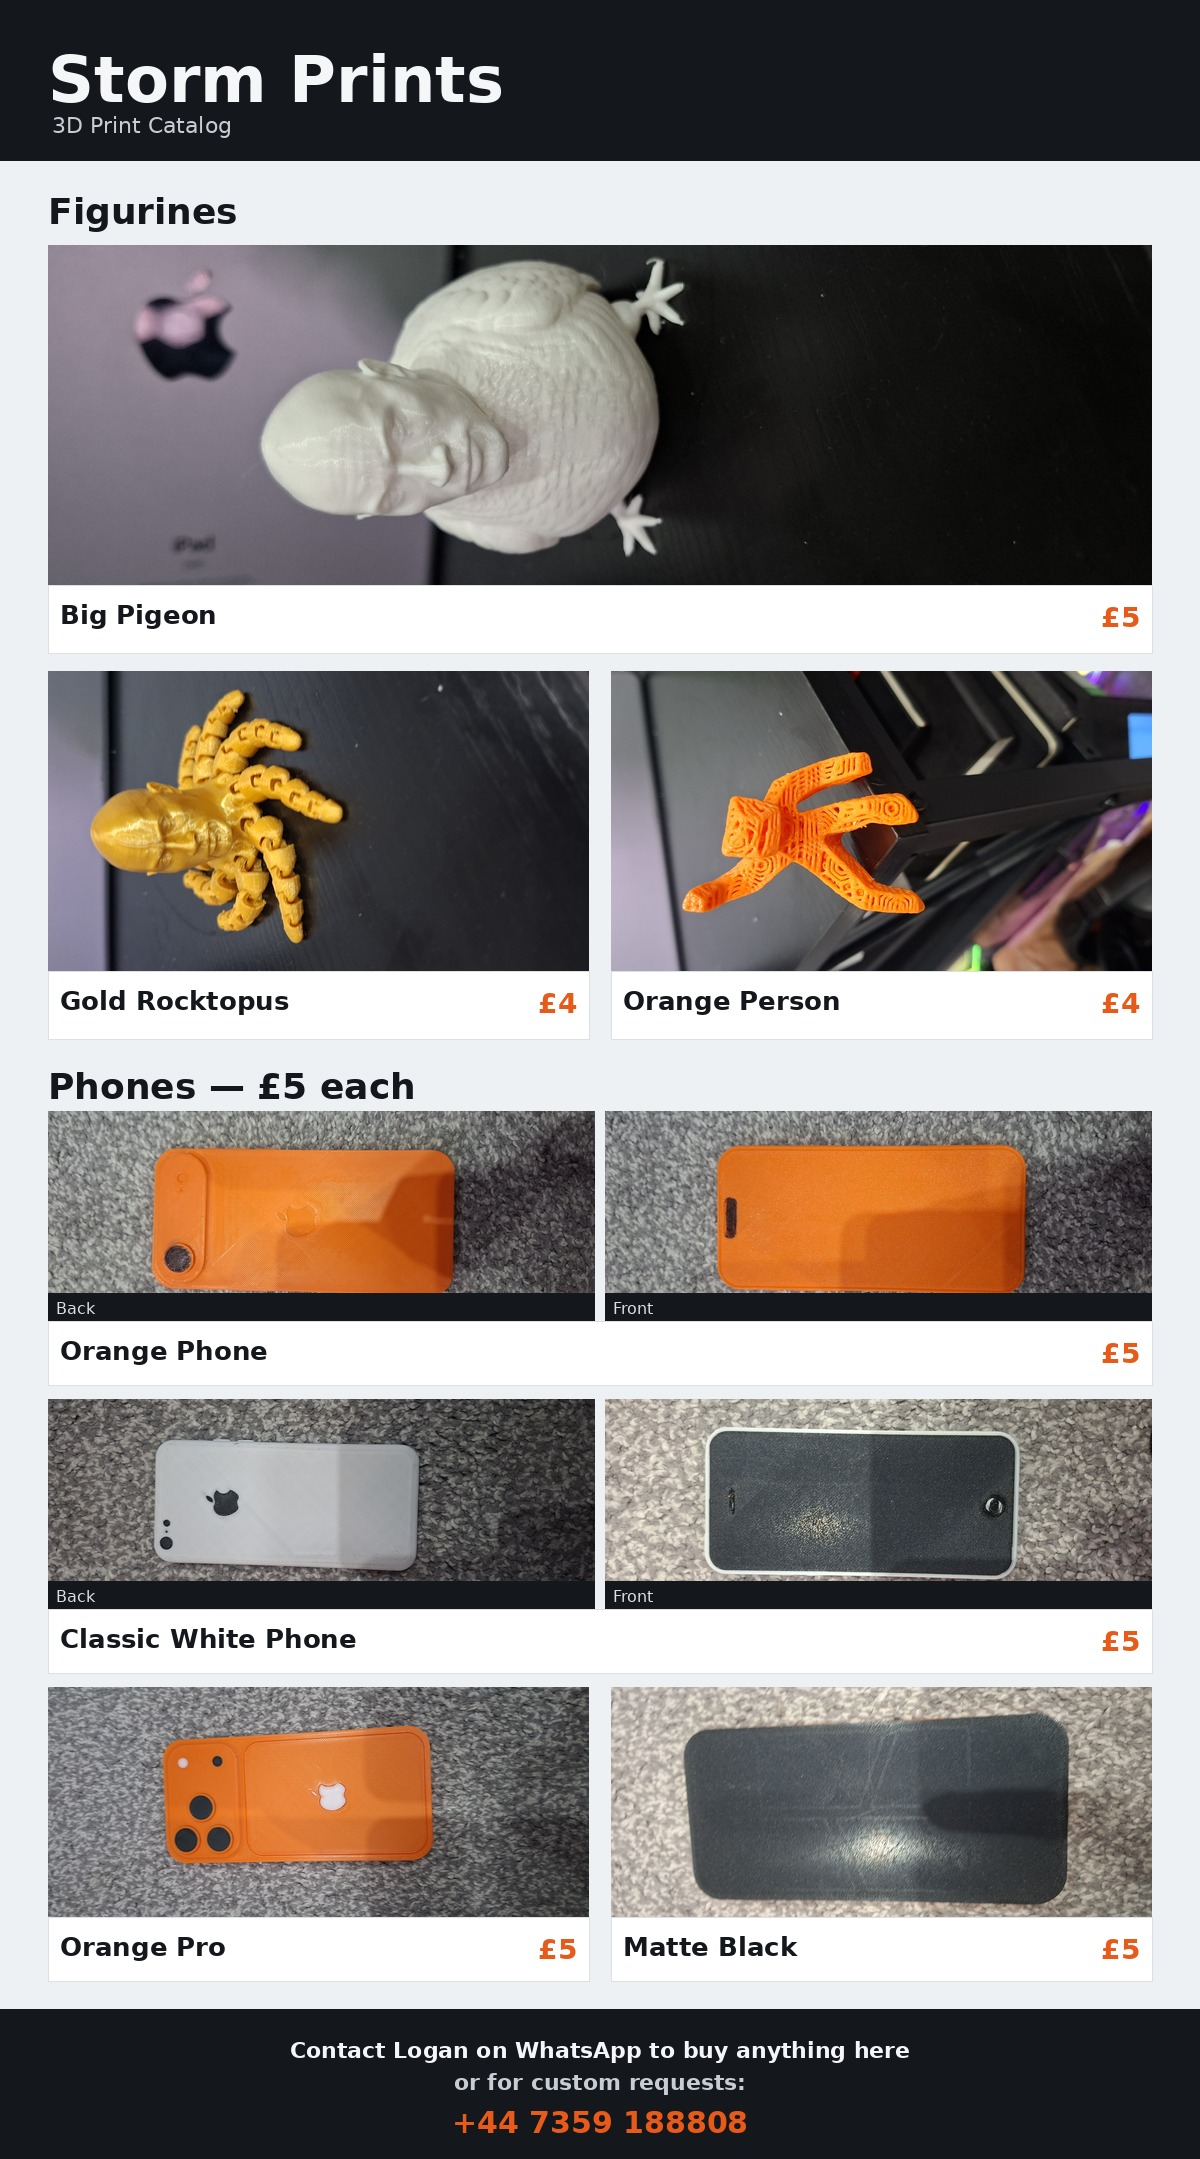
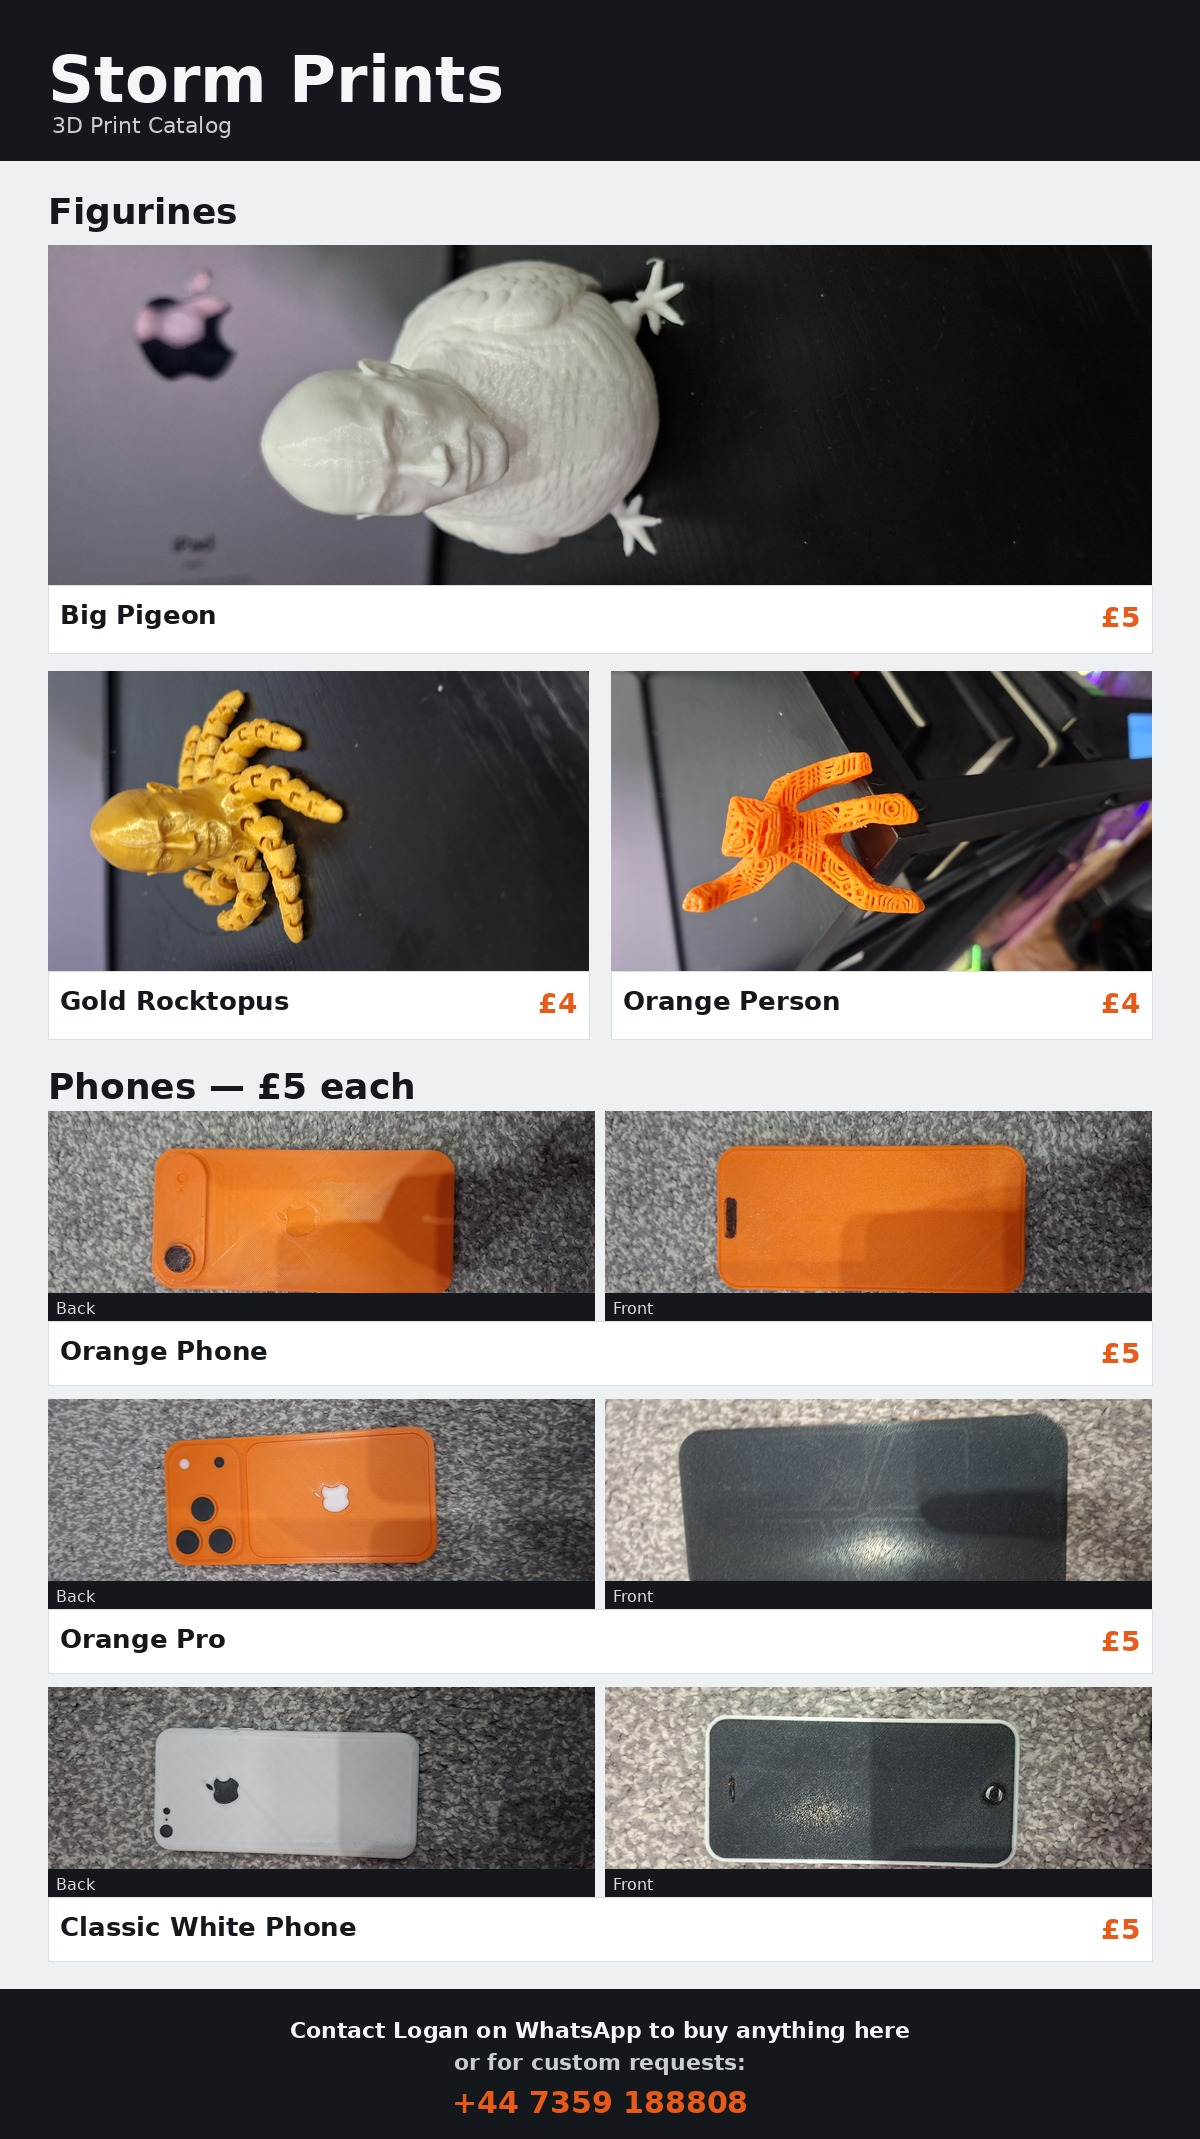
Pair matte black front with Orange Pro as one phone

diff --git a/3d-prints-catalog/index.html b/3d-prints-catalog/index.html
@@ -93,6 +93,23 @@
         <article class="phone phone--pair reveal">
           <div class="phone__shots">
             <figure>
+              <img src="images/phone-orange-pro.jpg" alt="Orange Pro phone back" width="1000" height="750" loading="lazy" />
+              <figcaption>Back</figcaption>
+            </figure>
+            <figure>
+              <img src="images/phone-matte-black.jpg" alt="Orange Pro phone front" width="1000" height="750" loading="lazy" />
+              <figcaption>Front</figcaption>
+            </figure>
+          </div>
+          <div class="phone__meta">
+            <h3>Orange Pro</h3>
+            <p>Front and back of the same print</p>
+            <p class="price">£5</p>
+          </div>
+        </article>
+        <article class="phone phone--pair reveal">
+          <div class="phone__shots">
+            <figure>
               <img src="images/phone-white-logo.jpg" alt="Classic white phone back" width="1000" height="750" loading="lazy" />
               <figcaption>Back</figcaption>
             </figure>
@@ -104,22 +121,6 @@
           <div class="phone__meta">
             <h3>Classic White Phone</h3>
             <p>Front and back of the same print</p>
-            <p class="price">£5</p>
-          </div>
-        </article>
-        <article class="phone reveal">
-          <img src="images/phone-orange-pro.jpg" alt="Orange Pro phone replica with triple camera island" width="1000" height="750" loading="lazy" />
-          <div class="phone__meta">
-            <h3>Orange Pro</h3>
-            <p>Triple camera island + logo back</p>
-            <p class="price">£5</p>
-          </div>
-        </article>
-        <article class="phone reveal">
-          <img src="images/phone-matte-black.jpg" alt="Matte black 3D-printed phone blank" width="1000" height="750" loading="lazy" />
-          <div class="phone__meta">
-            <h3>Matte Black</h3>
-            <p>Textured blank handset</p>
             <p class="price">£5</p>
           </div>
         </article>

diff --git a/3d-prints-catalog/build_catalog.py b/3d-prints-catalog/build_catalog.py
@@ -102,12 +102,10 @@ def build():
     full = W - 96
     y = place_pair(canvas, draw, 48, y, "phone-orange-single.jpg", "phone-orange-front.jpg", "Orange Phone", "£5", full, 210, 64)
     y += 14
-    y = place_pair(canvas, draw, 48, y, "phone-white-logo.jpg", "phone-classic-home.jpg", "Classic White Phone", "£5", full, 210, 64)
+    y = place_pair(canvas, draw, 48, y, "phone-orange-pro.jpg", "phone-matte-black.jpg", "Orange Pro", "£5", full, 210, 64)
     y += 14
-
-    y1 = place_item(canvas, draw, 48, y, "phone-orange-pro.jpg", "Orange Pro", "£5", half, 230, 64)
-    y2 = place_item(canvas, draw, 48 + half + gap, y, "phone-matte-black.jpg", "Matte Black", "£5", half, 230, 64)
-    y = max(y1, y2) + 28
+    y = place_pair(canvas, draw, 48, y, "phone-white-logo.jpg", "phone-classic-home.jpg", "Classic White Phone", "£5", full, 210, 64)
+    y += 28
 
     line1 = "Contact Logan on WhatsApp to buy anything here"
     line2 = "or for custom requests:"
